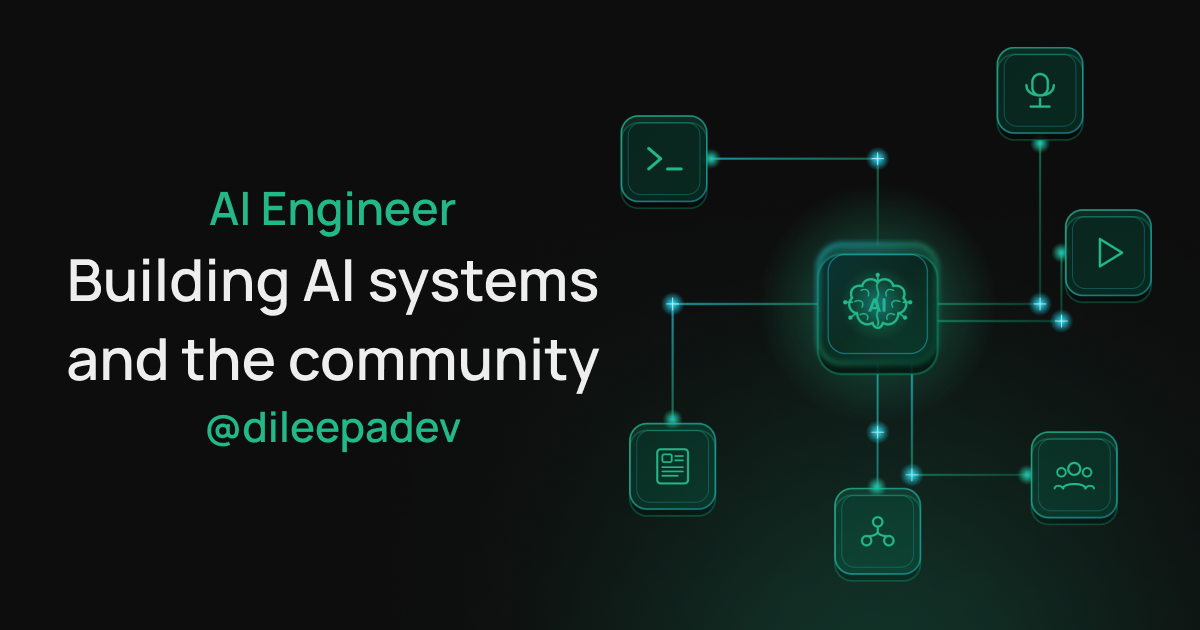
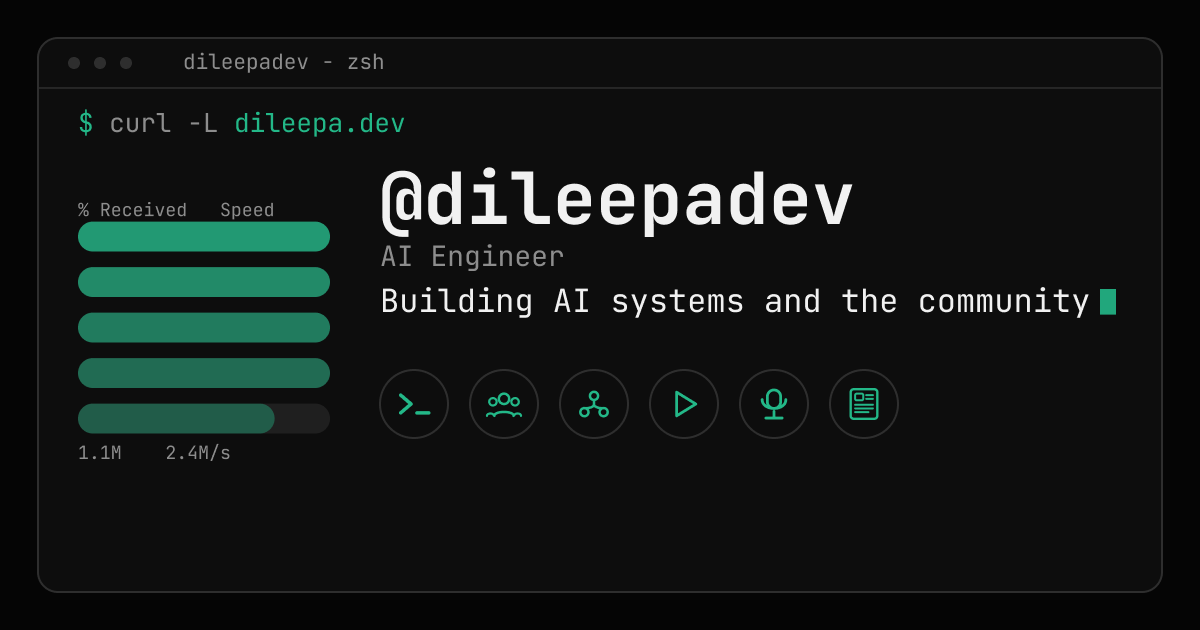
feat(brand): Update primary OG image and metadata configuration (refs #15)
- Set 1200x630 terminal art as primary /og.png and preserve 1600x900 detailed variant as /og2.png
- Add variant toggle (Default 1200x630 vs Detailed 1600x900) to social card simulator
- Standardize Open Graph images and relative canonical metadata across pages

diff --git a/app/brand/_components/BrandInteractive.tsx b/app/brand/_components/BrandInteractive.tsx
@@ -165,11 +165,21 @@ export function CopySnippetButton({
 
 export function SocialCardPreview() {
   const [platform, setPlatform] = useState<"twitter" | "linkedin">("twitter");
+  const [variant, setVariant] = useState<"standard" | "detailed">("standard");
   const [copied, setCopied] = useState(false);
+
+  const currentImage = variant === "standard" ? "/og.png" : "/og2.png";
+  const currentFilename =
+    variant === "standard"
+      ? "dileepa-dev-og.png"
+      : "dileepa-dev-og-detailed.png";
+  const dimensions = variant === "standard" ? "1200 × 630 px" : "1600 × 900 px";
+  const ratio =
+    variant === "standard" ? "1.91:1 (standard)" : "16:9 (widescreen)";
 
   const handleCopyUrl = async () => {
     try {
-      await navigator.clipboard.writeText("https://dileepa.dev/og.png");
+      await navigator.clipboard.writeText(`https://dileepa.dev${currentImage}`);
       setCopied(true);
       setTimeout(() => setCopied(false), 2000);
     } catch {
@@ -179,9 +189,39 @@ export function SocialCardPreview() {
 
   return (
     <div className="rounded-lg border border-border-strong bg-bg-surface overflow-hidden shadow-xs">
-      {/* Platform toggle bar */}
-      <div className="flex items-center justify-between px-4 py-3 bg-bg border-b border-border-strong text-xs font-mono">
-        <span className="text-fg font-medium">Social card simulator</span>
+      {/* Control bar */}
+      <div className="flex flex-wrap items-center justify-between gap-3 px-4 py-3 bg-bg border-b border-border-strong text-xs font-mono">
+        <div className="flex items-center gap-2">
+          <span className="text-fg font-medium">Social card simulator</span>
+          <span className="text-border-strong select-none">/</span>
+          <div className="flex items-center rounded border border-border-strong overflow-hidden text-[0.6875rem]">
+            <button
+              type="button"
+              onClick={() => setVariant("standard")}
+              className={cn(
+                "px-2 py-0.5 transition-colors cursor-pointer",
+                variant === "standard"
+                  ? "bg-brand-fill text-on-brand font-medium"
+                  : "bg-bg-surface text-fg-muted hover:text-fg hover:bg-surface-hover",
+              )}
+            >
+              Default (1200×630)
+            </button>
+            <button
+              type="button"
+              onClick={() => setVariant("detailed")}
+              className={cn(
+                "px-2 py-0.5 transition-colors cursor-pointer border-l border-border-strong",
+                variant === "detailed"
+                  ? "bg-brand-fill text-on-brand font-medium"
+                  : "bg-bg-surface text-fg-muted hover:text-fg hover:bg-surface-hover",
+              )}
+            >
+              Detailed (1600×900)
+            </button>
+          </div>
+        </div>
+
         <div className="flex items-center rounded border border-border-strong overflow-hidden text-[0.6875rem]">
           <button
             type="button"
@@ -214,12 +254,18 @@ export function SocialCardPreview() {
       <div className="p-4 sm:p-6 bg-bg flex justify-center">
         <div className="w-full max-w-xl rounded-xl border border-border-strong bg-bg-surface overflow-hidden shadow-md">
           {/* OG Image */}
-          <div className="relative aspect-[1200/630] w-full bg-bg overflow-hidden">
+          <div
+            className={cn(
+              "relative w-full bg-bg overflow-hidden",
+              variant === "standard" ? "aspect-[1200/630]" : "aspect-[16/9]",
+            )}
+          >
             <Image
-              src="/og.png"
+              key={currentImage}
+              src={currentImage}
               alt="Dileepa Bandara Open Graph preview"
-              width={1200}
-              height={630}
+              width={variant === "standard" ? 1200 : 1600}
+              height={variant === "standard" ? 630 : 900}
               className="w-full h-full object-cover"
               priority
             />
@@ -254,15 +300,15 @@ export function SocialCardPreview() {
       {/* Action Footer */}
       <div className="px-4 py-3 bg-bg-surface border-t border-border-strong flex flex-wrap items-center justify-between gap-3 text-xs font-mono">
         <div className="flex items-center gap-2 text-fg-muted">
-          <span>Dimensions: 1200 × 630 px</span>
+          <span>Dimensions: {dimensions}</span>
           <span>·</span>
-          <span>Ratio: 1.91:1</span>
+          <span>Ratio: {ratio}</span>
         </div>
 
         <div className="flex items-center gap-2">
           <a
-            href="/og.png"
-            download="dileepa-dev-og.png"
+            href={currentImage}
+            download={currentFilename}
             className="btn btn--secondary !h-7 !px-2.5 text-xs inline-flex items-center gap-1.5"
           >
             Download image

diff --git a/app/profile/page.tsx b/app/profile/page.tsx
@@ -7,11 +7,17 @@ import { ProfileClient } from "./_components/ProfileClient";
 export const metadata: Metadata = {
   title: PAGES.profile.meta.title,
   description: PAGES.profile.meta.description,
-  alternates: { canonical: `${SITE_CONFIG.url}/profile` },
+  alternates: { canonical: "/profile" },
   openGraph: {
     title: `${PAGES.profile.title} · ${SITE_CONFIG.name}`,
     description: PAGES.profile.meta.description,
-    images: [{ url: `${SITE_CONFIG.url}/profile/v2.webp` }],
+    images: [{ url: "/profile/v2.webp", width: 800, height: 800, alt: PAGES.profile.title }],
+  },
+  twitter: {
+    card: "summary_large_image",
+    title: `${PAGES.profile.title} · ${SITE_CONFIG.name}`,
+    description: PAGES.profile.meta.description,
+    images: ["/profile/v2.webp"],
   },
 };
 

diff --git a/app/sitemap/page.tsx b/app/sitemap/page.tsx
@@ -1,13 +1,13 @@
 import type { Metadata } from "next";
 import { Container, PagePath, Section } from "@/components/ui";
 import { api } from "@/lib/api";
-import { PAGES, PAGES_LIST, SITE_CONFIG } from "@/lib/constants";
+import { PAGES, PAGES_LIST } from "@/lib/constants";
 import { SiteTree, type TreeNode } from "./_components/SiteTree";
 
 export const metadata: Metadata = {
   title: PAGES.sitemap.meta.title,
   description: PAGES.sitemap.meta.description,
-  alternates: { canonical: `${SITE_CONFIG.url}/sitemap` },
+  alternates: { canonical: "/sitemap" },
 };
 
 export const revalidate = 300;

diff --git a/app/brand/page.tsx b/app/brand/page.tsx
@@ -33,7 +33,7 @@ import {
 export const metadata: Metadata = {
   title: PAGES.brand.meta.title,
   description: PAGES.brand.meta.description,
-  alternates: { canonical: `${SITE_CONFIG.url}/brand` },
+  alternates: { canonical: "/brand" },
 };
 
 export const revalidate = 900;
